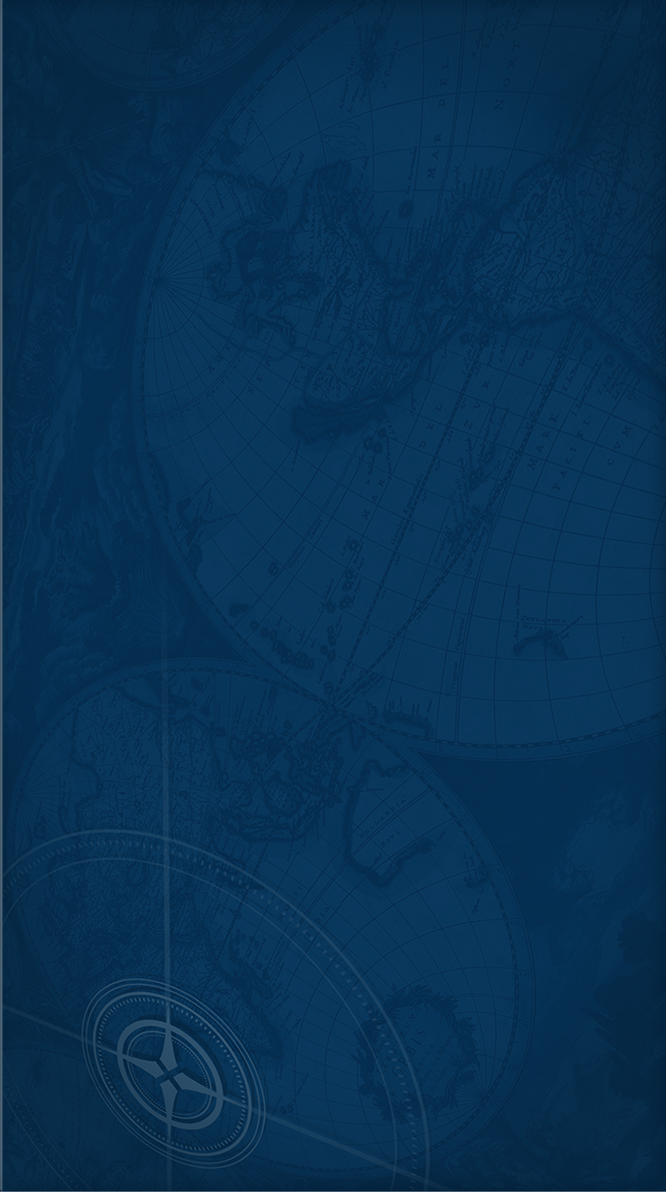
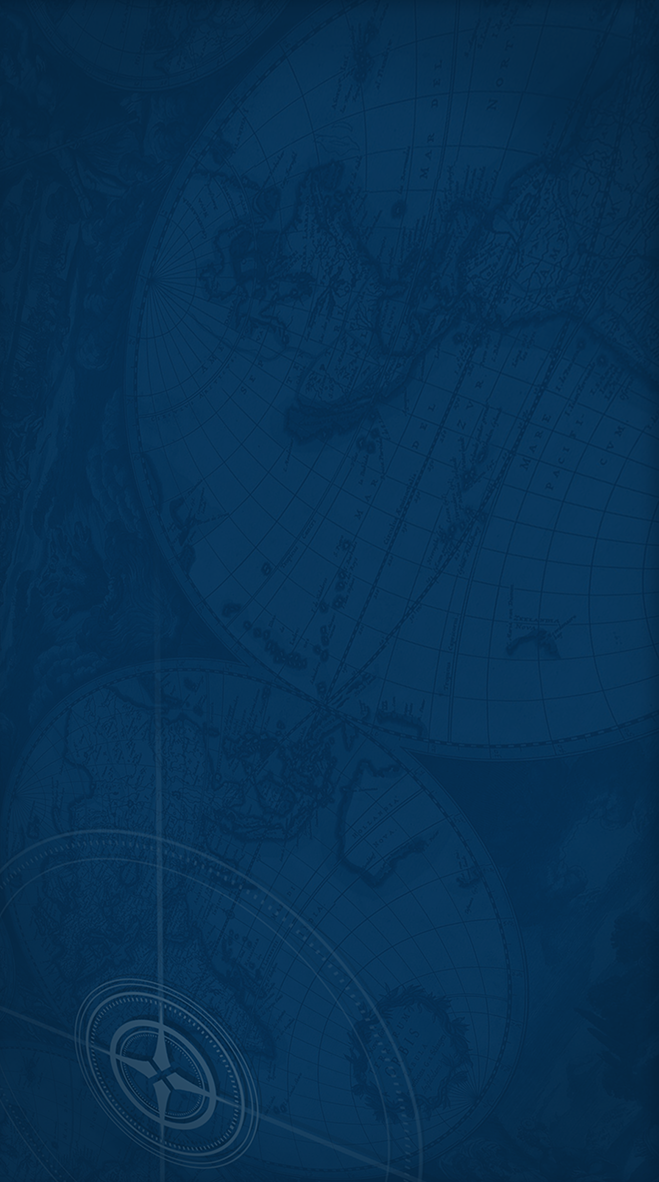
added sort and filter

Changed region(s): [[0.1214, 0.8223, 0.3945, 0.9746], [0.0, 0.0, 0.0303, 1.0]]

diff --git a/src/App.jsx b/src/App.jsx
@@ -7,7 +7,7 @@ import { useEffect, useState } from 'react'
 import { bannedCounter, generateRandomIndexArray } from './utils/calculations'
 import DraftedGame from './components/DraftedGame/DraftedGame'
 
-//todo добавить filter/sort
+//todo pre loader
 // исправить копирование
 
 function App() {
@@ -15,22 +15,22 @@ function App() {
   const [leaders, setLeaders] = useState('')
   const [leadersLeft, setLeadersLeft] = useState(civilizationsDATA.length)
   const [isBannedCount, setIsBannedCount] = useState(0)
-  const [filteredDATA, setFilteredDATA] = useState([])
+  const [allowedToDraftDATA, setAllowedToDraftDATA] = useState([])
   const [generateBtnStatus, setGenerateBtnStatus] = useState('Draft your game')
   const [randomIndexes, setRandomIndexes] = useState([])
 
   useEffect(() => {
-    setFilteredDATA([])
+    setAllowedToDraftDATA([])
     setGenerateBtnStatus('Draft your game')
   }, [players, leaders, isBannedCount])
 
   useEffect(() => {
-    const range = filteredDATA.length - 1
+    const range = allowedToDraftDATA.length - 1
     const amount = +leaders * +players
     if (range > 0) {
       setRandomIndexes(generateRandomIndexArray(range, amount))
     }
-  }, [filteredDATA, leaders, players])
+  }, [allowedToDraftDATA, leaders, players])
 
   const changeIsBanned = (e) => {
     const bannedLeader = e.target.closest(`[data-isbanned]`)
@@ -52,20 +52,26 @@ function App() {
   }
 
   const generateGame = () => {
-    if (!filteredDATA.length) {
+    if (!allowedToDraftDATA.length) {
       for (const item of civilizationsDATA) {
         if (item.isBanned === false) {
-          setFilteredDATA((filteredDATA) => [...filteredDATA, item])
+          setAllowedToDraftDATA((allowedToDraftDATA) => [
+            ...allowedToDraftDATA,
+            item,
+          ])
         }
       }
 
       setGenerateBtnStatus('regenerate')
     } else {
-      setFilteredDATA([])
+      setAllowedToDraftDATA([])
 
       for (const item of civilizationsDATA) {
         if (item.isBanned === false) {
-          setFilteredDATA((filteredDATA) => [...filteredDATA, item])
+          setAllowedToDraftDATA((allowedToDraftDATA) => [
+            ...allowedToDraftDATA,
+            item,
+          ])
         }
       }
 
@@ -95,10 +101,10 @@ function App() {
         generateGame={generateGame}
         generateBtnStatus={generateBtnStatus}
       />
-      {filteredDATA.length && (
+      {!!allowedToDraftDATA.length && (
         <DraftedGame
           leaders={leaders}
-          filteredDATA={filteredDATA}
+          allowedToDraftDATA={allowedToDraftDATA}
           randomIndexes={randomIndexes}
         />
       )}

diff --git a/src/components/CivilizationSettings/CivilizationSettings.jsx b/src/components/CivilizationSettings/CivilizationSettings.jsx
@@ -1,7 +1,9 @@
+import { useMemo, useState } from 'react'
 import MyActionButton from '../UI/buttons/MyActionButton'
 import styles from './CivilizationSettings.module.scss'
 import CivilizationsList from './CivilizationsList'
 import PropTypes from 'prop-types'
+import CivilizationsFilter from './CivilizationsFilter'
 
 const CivilizationSettings = ({
   players,
@@ -12,13 +14,41 @@ const CivilizationSettings = ({
   generateBtnStatus,
   leadersLeft,
 }) => {
+  const [filter, setFilter] = useState({ sort: '', query: '' })
+
+  const sortedCivilizations = useMemo(() => {
+    if (filter.sort) {
+      return [...civilizationsDATA].sort((a, b) =>
+        a[filter.sort].localeCompare(b[filter.sort])
+      )
+    }
+    return civilizationsDATA
+  }, [filter.sort, civilizationsDATA])
+
+  const sortedAndFoundCivilizations = useMemo(() => {
+    return sortedCivilizations.filter(
+      (civilization) =>
+        civilization.leaderName
+          .toLowerCase()
+          .includes(filter.query.toLowerCase()) ||
+        civilization.civilizationName
+          .toLowerCase()
+          .includes(filter.query.toLowerCase())
+    )
+  }, [filter.query, sortedCivilizations])
+
   return (
     <div className={styles.civilizationSettings}>
-      <CivilizationsList
-        leadersLeft={leadersLeft}
-        civilizationsDATA={civilizationsDATA}
-        setIsBannedCount={setIsBannedCount}
-      />
+      <CivilizationsFilter filter={filter} setFilter={setFilter} />
+      {sortedAndFoundCivilizations.length ? (
+        <CivilizationsList
+          leadersLeft={leadersLeft}
+          civilizationsDATA={sortedAndFoundCivilizations}
+          setIsBannedCount={setIsBannedCount}
+        />
+      ) : (
+        <h1>Not found</h1>
+      )}
       <MyActionButton
         disabled={!players || !leaders ? true : leadersLeft < 0 ? true : false}
         onClick={generateGame}

diff --git a/src/components/CivilizationSettings/CivilizationsFilter.jsx b/src/components/CivilizationSettings/CivilizationsFilter.jsx
@@ -1,0 +1,36 @@
+import PropTypes from 'prop-types'
+import MyInput from '../UI/input/MyInput'
+import MySelect from '../UI/select/MySelect'
+import styles from './CivilizationsFilter.module.scss'
+
+const CivilizationsFilter = ({ filter, setFilter }) => {
+  return (
+    <div className={styles.civilizationFilter}>
+      <MySelect
+        value={filter.sort}
+        onChange={(selectedSort) =>
+          setFilter({ ...filter, sort: selectedSort })
+        }
+        defaultValue="SORT BY"
+        options={[
+          { value: 'civilizationName', name: 'Civilization' },
+          { value: 'leaderName', name: 'Leader' },
+        ]}
+      />
+      <MyInput
+        value={filter.query}
+        onChange={(event) =>
+          setFilter({ ...filter, query: event.target.value })
+        }
+        placeholder="Search"
+      />
+    </div>
+  )
+}
+
+CivilizationsFilter.propTypes = {
+  filter: PropTypes.object.isRequired,
+  setFilter: PropTypes.func.isRequired,
+}
+
+export default CivilizationsFilter

diff --git a/src/components/DraftedGame/DraftedGame.jsx b/src/components/DraftedGame/DraftedGame.jsx
@@ -7,9 +7,9 @@ import { useState } from 'react'
 import MyModal from '../UI/modal/MyModal'
 import { clipboardTemplate } from '../../utils/clipboardTemplate'
 
-const DraftedGame = ({ leaders, filteredDATA, randomIndexes }) => {
+const DraftedGame = ({ leaders, allowedToDraftDATA, randomIndexes }) => {
   const [copied, setCopied] = useState(false)
-  const layoutArray = randomIndexes.map((index) => filteredDATA[index])
+  const layoutArray = randomIndexes.map((index) => allowedToDraftDATA[index])
   const template = clipboardTemplate(layoutArray, leaders)
 
   const handleCopy = () => {
@@ -33,7 +33,7 @@ const DraftedGame = ({ leaders, filteredDATA, randomIndexes }) => {
 
 DraftedGame.propTypes = {
   leaders: PropTypes.string.isRequired,
-  filteredDATA: PropTypes.array.isRequired,
+  allowedToDraftDATA: PropTypes.array.isRequired,
   randomIndexes: PropTypes.array.isRequired,
 }
 

diff --git a/src/components/UI/input/MyInput.module.scss b/src/components/UI/input/MyInput.module.scss
@@ -1,0 +1,8 @@
+.myInput {
+  width: 30%;
+  border-radius: 0.25em;
+  padding-left: 12px;
+  font-family: var(--font-family);
+  font-weight: 700;
+  border: 1px solid var(--color-black);
+}

diff --git a/src/styles/styles.scss b/src/styles/styles.scss
@@ -6,6 +6,6 @@
 body {
   background: url(/images/background.png);
   background-position: center;
-  background-size: contain;
+  background-size: cover;
   backdrop-filter: blur(3px);
 }

diff --git a/src/components/UI/input/MyInput.jsx b/src/components/UI/input/MyInput.jsx
@@ -1,0 +1,7 @@
+import styles from './MyInput.module.scss'
+
+const MyInput = (props) => {
+  return <input {...props} className={styles.myInput}></input>
+}
+
+export default MyInput

diff --git a/src/components/CivilizationSettings/CivilizationsFilter.module.scss b/src/components/CivilizationSettings/CivilizationsFilter.module.scss
@@ -1,0 +1,7 @@
+.civilizationFilter {
+	margin: 15px 8px;
+	display: flex;
+	gap: 20px;
+	width: 100%;
+	justify-content: center;
+}
